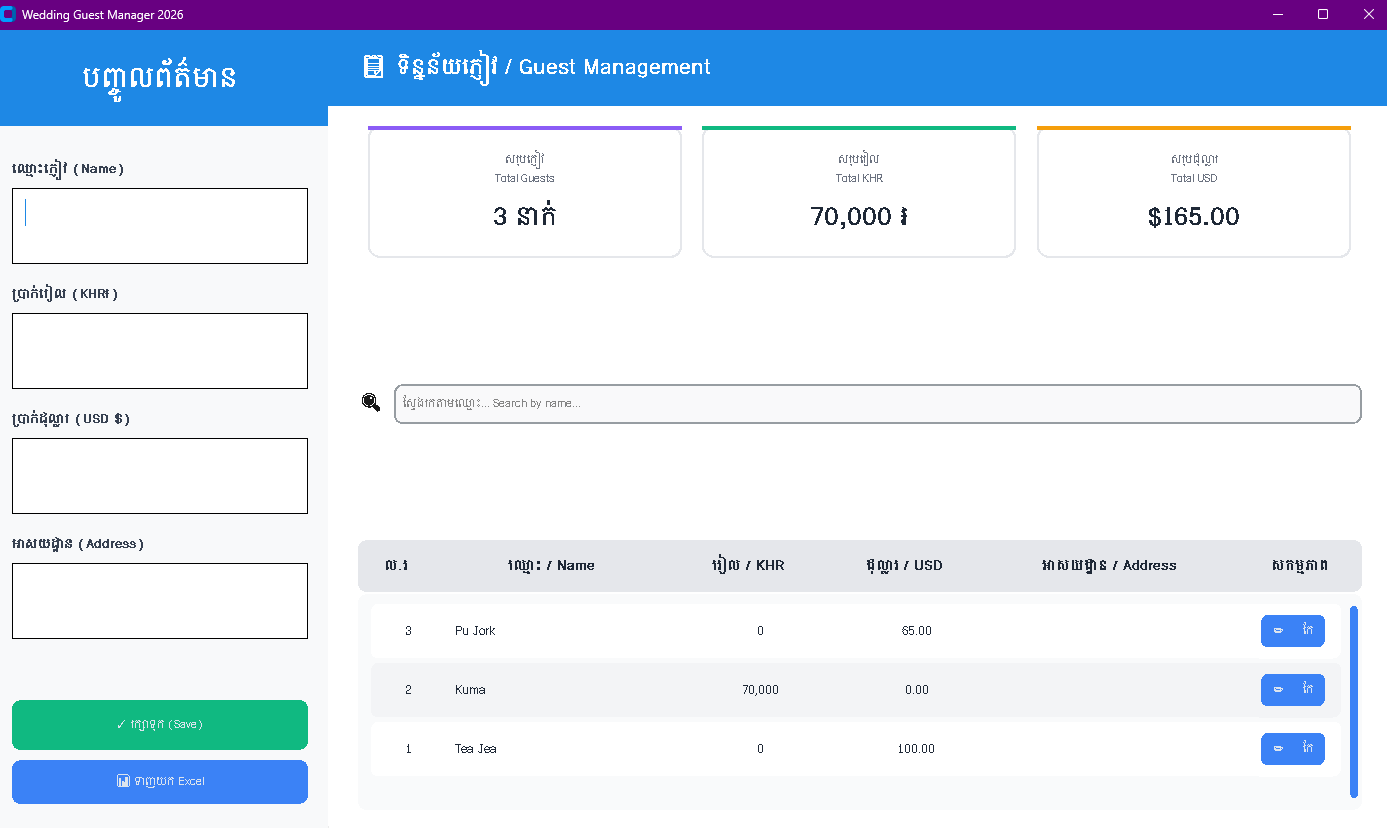
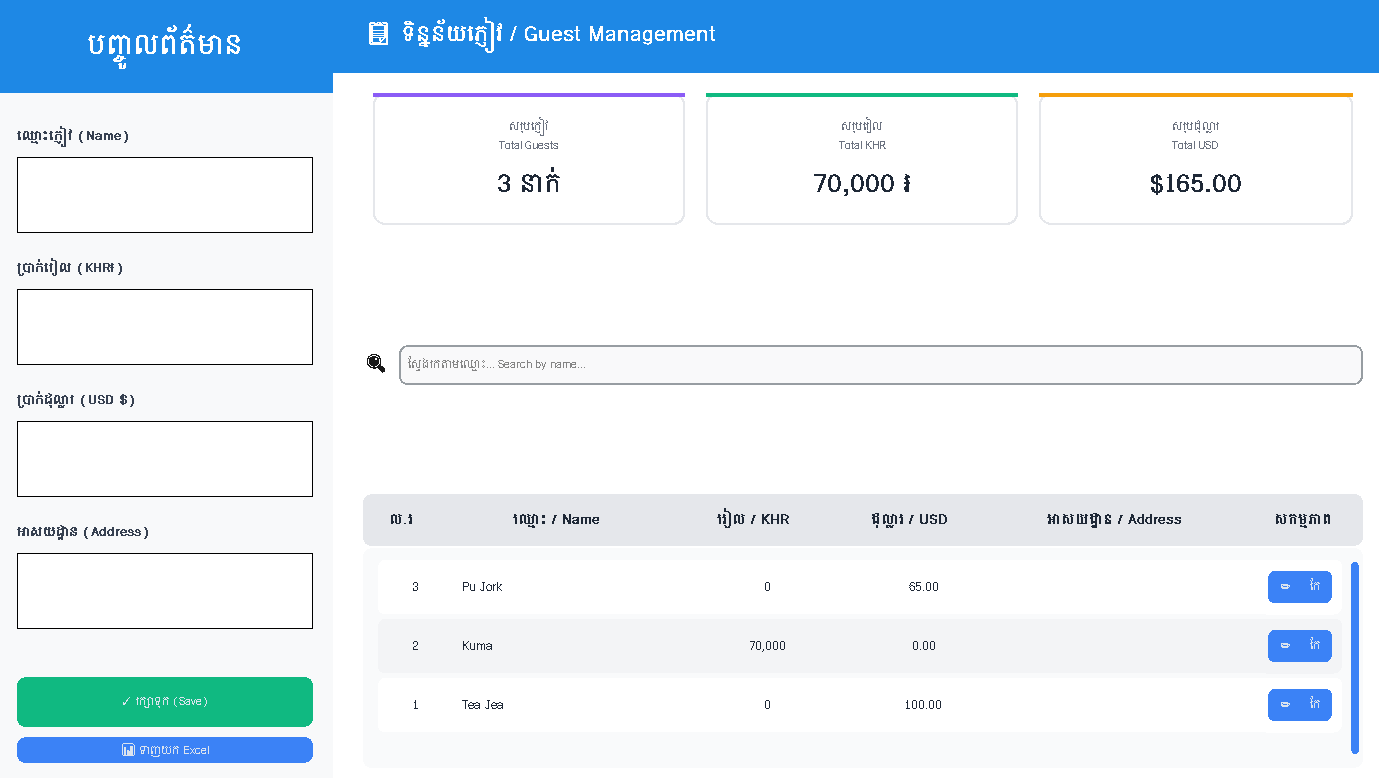
ui

diff --git a/ui/wedding_app.py b/ui/wedding_app.py
@@ -149,7 +149,7 @@ class WeddingApp(ctk.CTk):
             padx=12,
             pady=10
         )
-        textbox.pack(fill="x", pady=(0, 0))
+        textbox.pack(fill="x", pady=(2, 5))
         
         # Disable return key creating new lines
         textbox.bind("<Return>", lambda e: "break")
